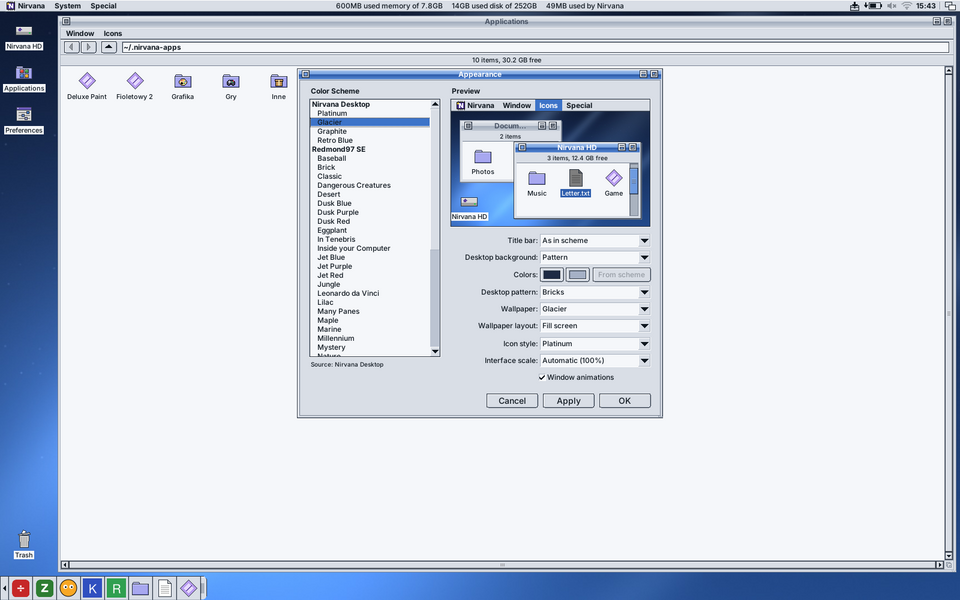
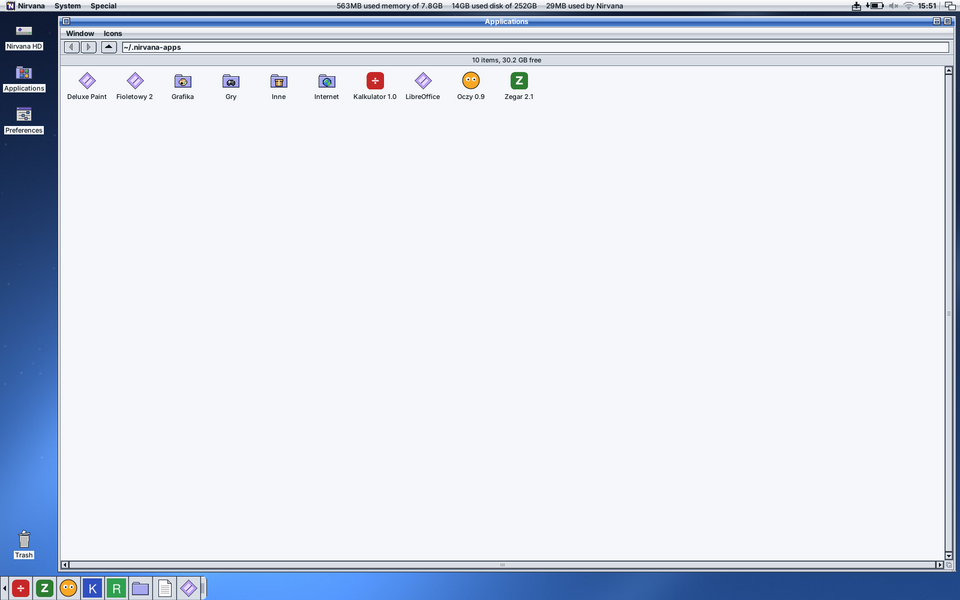
0.0.21: glass menu bars with the glass title style (Glacier)
Claude-Session: https://claude.ai/code/session_01CEnPw5iqhrU7RkhjuakvKB

Changed region(s): [[0.2812, 0.09, 0.6875, 0.72], [0.0625, 0.0, 1.0, 0.06], [0.0625, 0.93, 1.0, 0.96]]

diff --git a/README.pl.md b/README.pl.md
@@ -34,7 +34,7 @@ Napisane w C++ i FLTK 1.4.
 
 Rozpakuj źródła i uruchom instalator:
 
-    tar xzf nirvana-desktop-0.0.20.tar.gz && cd nirvana-desktop
+    tar xzf nirvana-desktop-0.0.21.tar.gz && cd nirvana-desktop
     sudo ./install.sh                 # albo: sudo ./install.sh --login-screen
 
 Instalator:
@@ -400,7 +400,8 @@ przestawia cały system: Rambler i Insight przeładowują paletę bez restartu.
   [Redmond97 SE](https://codeberg.org/Sliver_X/Redmond97-SE) (GPL-3.0).
 - **Wygląd domyślny**: schemat *In Tenebris*, wzór *Cegiełki* i ikony Platinum.
 - **Pasek tytułu**: jak w schemacie, prążki Platinum, jednolity kolor, gradient albo szkło (połysk
-  w górnej połowie i ciemniejszy środek, jak na błyszczących pulpitach z lat 2000).
+  w górnej połowie i ciemniejszy środek, jak na błyszczących pulpitach z lat 2000); przy szkle także
+  górna belka menu i paski menu w oknach folderów są szklane.
 - **Tło biurka**: *Wzór*, *Jednolity kolor* albo *Gradient*.
   - Kolory wybiera się z dwóch próbek. Drugi kolor gradientu domyślnie jest ciemniejszą
     (albo, na ciemnym tle, jaśniejszą) wersją pierwszego. *Ze schematu* wraca do kolorów

diff --git a/README.md b/README.md
@@ -35,7 +35,7 @@ on the desktop. Written in C++ and FLTK 1.4.
 
 Unpack the sources and run the installer:
 
-    tar xzf nirvana-desktop-0.0.20.tar.gz && cd nirvana-desktop
+    tar xzf nirvana-desktop-0.0.21.tar.gz && cd nirvana-desktop
     sudo ./install.sh                 # or: sudo ./install.sh --login-screen
 
 The installer:
@@ -404,7 +404,8 @@ the whole system: Rambler and Insight reload the palette without a restart.
   [Redmond97 SE](https://codeberg.org/Sliver_X/Redmond97-SE) (GPL-3.0).
 - **Default look**: the *In Tenebris* scheme, the *Bricks* pattern and Platinum icons.
 - **Title bar**: as in the scheme, Platinum stripes, solid colour, gradient or glass (a shine on
-  the upper half, the darker middle, as on the glossy desktops of the 2000s).
+  the upper half, the darker middle, as on the glossy desktops of the 2000s); with glass the menu
+  bar at the top and the bars of the folder windows are glass too.
 - **Desktop background**: *Pattern*, *Solid color* or *Gradient*.
   - Colours are picked from two swatches. The second gradient colour is by default a darker
     (or, on a dark background, lighter) version of the first one. *From scheme* returns to the
